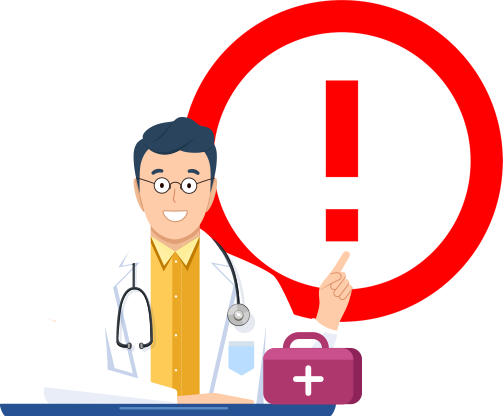
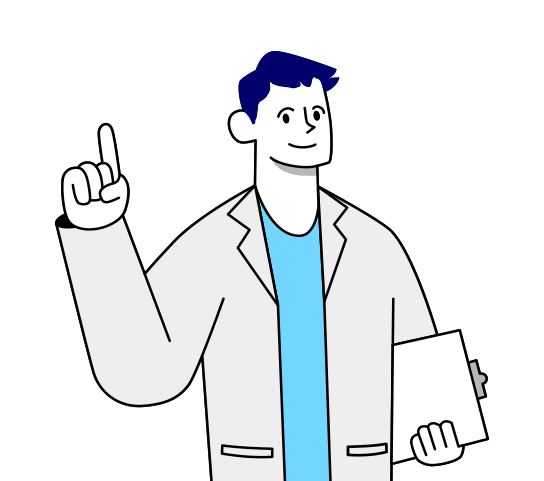
강사프로필 수정

diff --git a/main.html b/main.html
@@ -246,21 +246,21 @@
                         <div class="kosk-contents">
                             <div class="kosk-col">
                                 <ul>
-                                    <li>
+                                    <li class="basic-box">
                                         <div class="kosk-note-top col">
                                             <span class="col">01</span>
                                             <span>당일 예약</span>
                                         </div>
                                         <span>진료 예약은 20분 단위으로 당일 예약만 가능합니다.</span>
                                     </li>
-                                    <li>
+                                    <li class="basic-box">
                                         <div class="kosk-note-top col">
                                             <span class="col">02</span>
                                             <span>미리 예약</span>
                                         </div>
                                         <span>예약할 진료 시간 10분 전 까지만 미리 예약이 가능합니다.</span>
                                     </li>
-                                    <li>
+                                    <li class="basic-box">
                                         <div class="kosk-note-top col">
                                             <span class="col">03</span>
                                             <span>방문 약국 선택</span>
@@ -273,8 +273,25 @@
                     </div>
                 </div>
                 <div class="swiper-slide slide-item slide-item05">
-                    <section class="lecture-intro01">
-                        <img src="./img/lecture-intro01.jpg" alt="강사소개">
+                    <section class="lecture-intro01 con">
+                        <div class="lecture-col col">
+                            <div class="lecture-left basic-box">
+                                <div class="lecture-left-top">
+                                    <h2 class="lecture-name">김철수 강사</h2>
+                                    <em class="lecture-desc">김철수 강사와 함께하는 노래 교실</em>
+                                </div>
+                                <ul class="lecture-left-list">
+                                    <li><span></span>노인 건강 운동 지도사</li>
+                                    <li><span></span>가요 전문 지도 강사</li>
+                                    <li><span></span>문화복지사</li>
+                                    <li><span></span>노인 성교육사</li>
+                                    <li><span></span>건강 걷기 지도 강사</li>
+                                    <li><span></span>한국 시니어 교육 협회 전임 강사</li>
+                                    <li><span></span>노래 지도사</li>
+                                </ul>
+                            </div>
+                            <div class="lecture-right basic-box"></div>
+                        </div>
                     </section>
                 </div>
                 <div class="swiper-slide slide-item slide-item06">

diff --git a/css/main.css b/css/main.css
@@ -14,8 +14,8 @@ body { color: #fff; -webkit-font-smoothing: antialiased; text-rendering: optimiz
 
 .main-box-title { display: flex; align-items: center; gap: 4rem; padding-left: 4rem; margin-bottom: 0.6vw; } 
 .main-box-title span:last-child { font-size: 1.5vw; font-weight: 700; color: #fff; } 
-.main-box-title span:first-child { display: inline-block; position: relative; width: 2rem; height: 2rem; border-radius: 100%; background-color: #00ff1f; box-shadow: 0 0 7rem #00ff1f9e; } 
-.main-box-title span:first-child:before { content: ""; display: block; position: absolute; left: 50%; top: 50%; transform: translate(-50%, -50%); width: 2rem; height: 2rem; border-radius: 100%; background-color: #10ff1f9e; animation: mainBoxCircle 1.4s linear infinite; } 
+.main-box-title span:first-child { display: inline-block; position: relative; width: 2rem; height: 2rem; border-radius: 100%; background-color: #00a7ff; box-shadow: 0 0 7rem #00a7ff; } 
+.main-box-title span:first-child:before { content: ""; display: block; position: absolute; left: 50%; top: 50%; transform: translate(-50%, -50%); width: 2rem; height: 2rem; border-radius: 100%; background: linear-gradient(45deg, #00a7ff, #004cff); animation: mainBoxCircle 1.4s linear infinite; } 
 
 @keyframes mainBoxCircle { 
  0% { width: 2rem; height: 2rem; } 
@@ -87,7 +87,17 @@ body { color: #fff; -webkit-font-smoothing: antialiased; text-rendering: optimiz
 .main-box .weather-right {
     height: 100%;
 }
-.main-box #weather-icon { display: flex !important; align-items: center; height: 100%; border-radius: 0.5208vw; background-color: rgba(0,0,0,0.2); backdrop-filter: blur(0.3646vw); } 
+.main-box #weather-icon {
+    display: flex !important;
+    align-items: center;
+    position: absolute;
+    right: 0;
+    top: 0;
+    height: auto;
+    padding: 0;
+    border-radius: 0.5208vw;
+    background-color: transparent;
+} 
 #temp, #desc {
     padding-left: 8rem;
 }

diff --git a/css/lecture.css b/css/lecture.css
@@ -1,8 +1,53 @@
 @charset 'UTF-8';
 
+/* 강의 전 강사 소개 */
+.lecture-intro01 {
+    margin-top: var(--banner-h);
+    padding: var(--pad);
+}
+.lecture-col.col {
+    gap: 1vw;
+    height: 100%;
+}
+.lecture-col.col > div {
+    width: 50%;
+    padding: 2vw;
+}
+.lecture-left-top {
+    margin-bottom: 3vw;
+}
+.lecture-left-top h2, .lecture-left-top em {
+    color: #fff;
+}
+.lecture-left-top h2 {
+    margin-bottom: 2vw;
+    padding: 0.6vw 2vw;
+    border-radius: 1vw;
+    font-size: 5vw;
+    background: linear-gradient(-45deg, #04003d, #00569c);
+    /* box-shadow: 0 0 2rem rgba(255, 255, 255, 0.5); */
+}
+.lecture-left-top em {
+    font-size: 2.7vw;
+    font-weight: 700;
+}
+.lecture-left-list li {
+    font-size: 2.4vw;
+    color: #fff;
+    display: flex;
+    align-items: center;
+    gap: 2vw;
+    padding-left: 1vw;
+}
+.lecture-left-list li + li {
+    margin-top: 1vw;
+}
+.lecture-left-list li span { display: inline-block; position: relative; width: 2rem; height: 2rem; border-radius: 100%; background-color: #00a7ff; box-shadow: 0 0 7rem #00a7ff; } 
+.lecture-left-list li span:before { content: ""; display: block; position: absolute; left: 50%; top: 50%; transform: translate(-50%, -50%); width: 2rem; height: 2rem; border-radius: 100%; background: linear-gradient(45deg, #00a7ff, #004cff); animation: mainBoxCircle 1.4s linear infinite; } 
+
+
 .lecture-intro01 {
     overflow: hidden;
-    height: 100vh;
 }
 .lecture-intro01 img {
     object-fit: contain;

diff --git a/css/kosk.css b/css/kosk.css
@@ -14,6 +14,7 @@
 
 .kosk-col { gap: 3vw; align-items: center; margin-bottom: 2vw; } 
 .kosk-col ul li { align-items: center; padding: 1vw 2vw; border-radius: 1vw; background: linear-gradient(-45deg, #34324e, transparent); box-shadow: 0 0 2rem rgba(255, 255, 255, 0.5); } 
+
 .kosk-col ul li + li { margin-top: 1vw; } 
 .kosk-col ul li span { display: flex; font-size: 2vw; color: #fff; } 
 .kosk-col ul li span + span { margin-left: 1vw; } 

diff --git a/css/comm.css b/css/comm.css
@@ -20,3 +20,7 @@ body {
     margin-top: var(--banner-h);
     padding: var(--pad); 
 }
+
+.basic-box {
+    padding: 1vw 2vw; border-radius: 1vw; background: linear-gradient(-45deg, #34324e, transparent); box-shadow: 0 0 2rem rgba(255, 255, 255, 0.5);
+}
